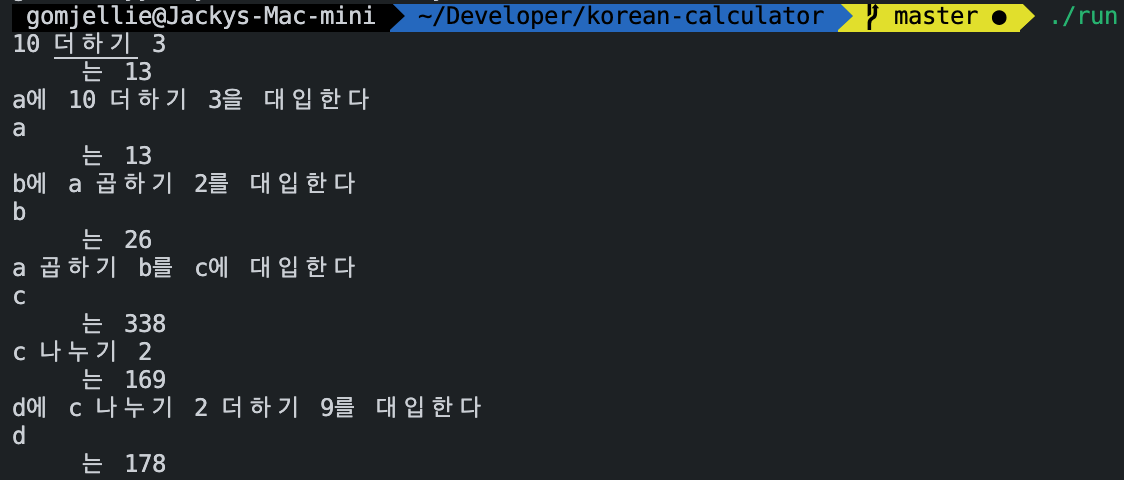
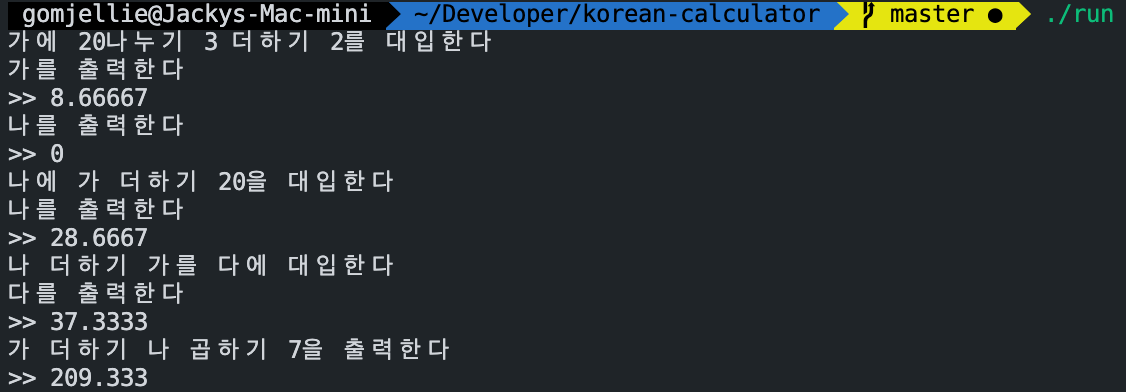
한글 정규표현식으로 다 잡아서 함수에서 strcmp로 그냥 노가다 비교로 변경...

Changed region(s): [[0.0, 0.0, 0.9964, 1.0]]

diff --git a/README.md b/README.md
@@ -9,7 +9,7 @@ LRParser 로 만든 한글 계산기 (feat. lex, yacc)
 
 ## 변수
 
-- 변수는 (가|나|다|라|마|바|사|아) 한글자다.
+- 변수는 24글자 이내의 연속된 한글이다.
 
 ## 연산
 
@@ -63,11 +63,11 @@ LRParser 로 만든 한글 계산기 (feat. lex, yacc)
 
 ## 변수 값 확인하기
 
-### 변수명 입력
+### 변수명`[을|를]` 출력한다
 
 ```sh
-가
->>     는 20입니다.
+가를 출력한다
+>> 20입니다.
 ```
 
 # 빌드
